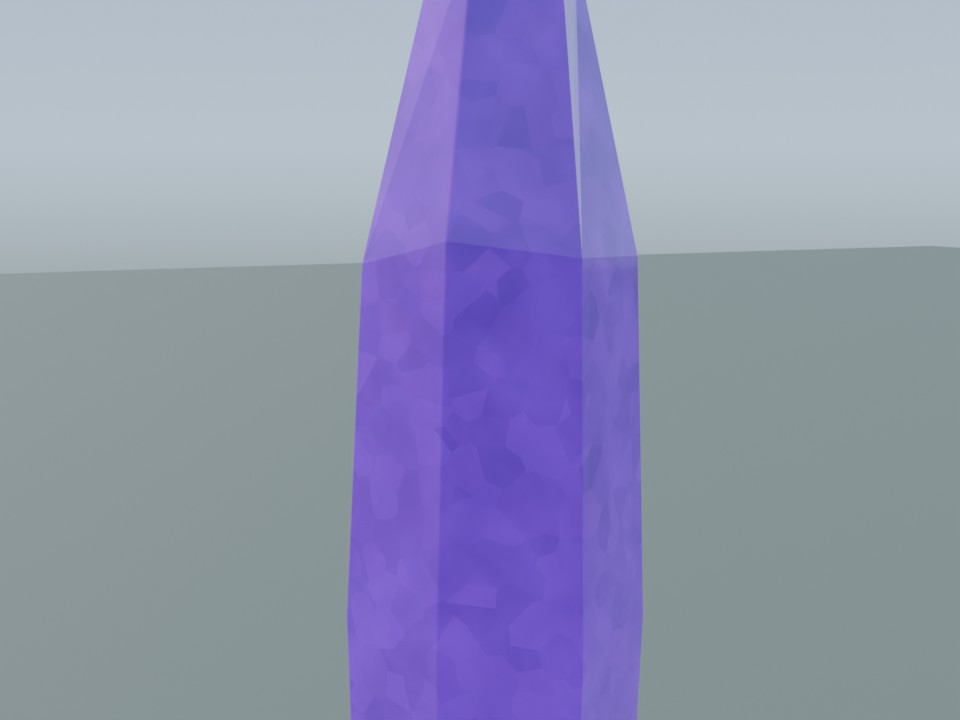
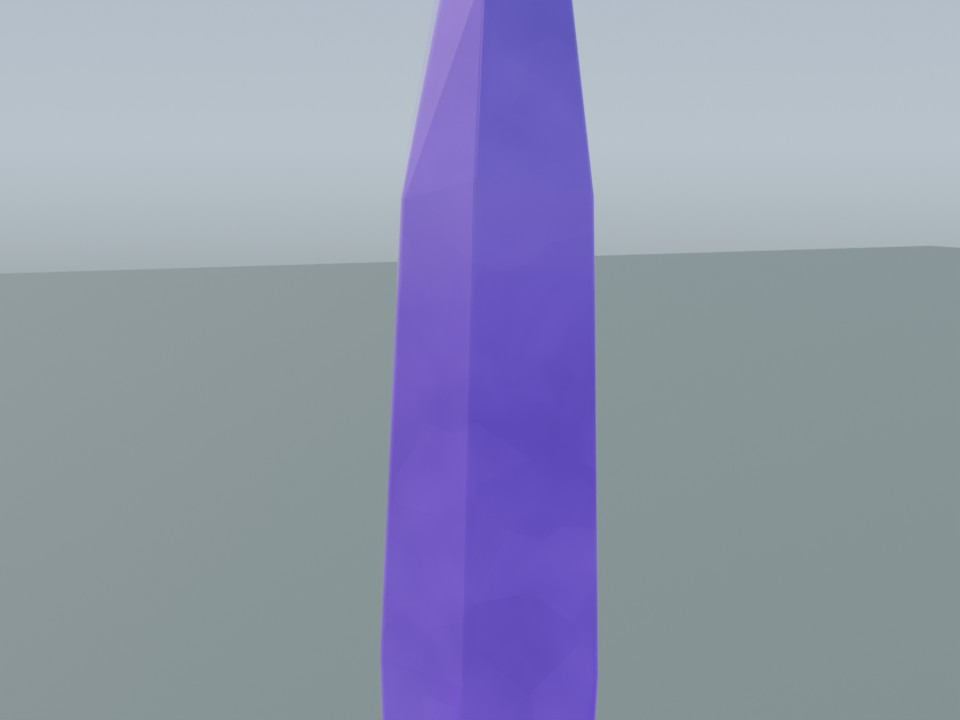
Refine spire mineral scale, fractured footing and rooted collar

diff --git a/assets/crystals/crystal_spire_a/build.py b/assets/crystals/crystal_spire_a/build.py
@@ -138,6 +138,12 @@ def crystal_material():
     coords = N.new("ShaderNodeTexCoord")
     sep = N.new("ShaderNodeSeparateXYZ")
     L.new(coords.outputs["Generated"], sep.inputs["Vector"])
+    density = N.new("ShaderNodeAttribute")
+    density.attribute_name = "growth_scale"
+    mineral_space = N.new("ShaderNodeVectorMath")
+    mineral_space.operation = "SCALE"
+    L.new(coords.outputs["Object"], mineral_space.inputs[0])
+    L.new(density.outputs["Fac"], mineral_space.inputs[3])
 
     body = N.new("ShaderNodeValToRGB")
     e = body.color_ramp.elements
@@ -150,12 +156,12 @@ def crystal_material():
     # Angular inner fractures: large Voronoi cells shift tone and glow.
     cells = N.new("ShaderNodeTexVoronoi")
     cells.inputs["Scale"].default_value = 5.5
-    L.new(coords.outputs["Object"], cells.inputs["Vector"])
+    L.new(mineral_space.outputs["Vector"], cells.inputs["Vector"])
     cell_sep = N.new("ShaderNodeSeparateXYZ")
     L.new(cells.outputs["Color"], cell_sep.inputs["Vector"])
     fract = N.new("ShaderNodeMixRGB")
     fract.blend_type = "OVERLAY"
-    fract.inputs["Fac"].default_value = 0.14
+    fract.inputs["Fac"].default_value = 0.045
     L.new(body.outputs["Color"], fract.inputs["Color1"])
     L.new(cells.outputs["Color"], fract.inputs["Color2"])
     tint = N.new("ShaderNodeMixRGB")
@@ -172,7 +178,7 @@ def crystal_material():
     veins.inputs["Scale"].default_value = 2.4
     veins.inputs["Detail"].default_value = 3
     veins.inputs["Distortion"].default_value = 0.4
-    L.new(coords.outputs["Object"], veins.inputs["Vector"])
+    L.new(mineral_space.outputs["Vector"], veins.inputs["Vector"])
     vein_mask = N.new("ShaderNodeValToRGB")
     vein_mask.color_ramp.elements[0].position = 0.35
     vein_mask.color_ramp.elements[1].position = 0.75
@@ -192,7 +198,7 @@ def crystal_material():
     L.new(core.outputs["Result"], vein_gain.inputs[2])
     cell_gain = N.new("ShaderNodeMath")
     cell_gain.operation = "MULTIPLY_ADD"
-    cell_gain.inputs[1].default_value = 0.10
+    cell_gain.inputs[1].default_value = 0.035
     L.new(cell_sep.outputs["X"], cell_gain.inputs[0])
     L.new(vein_gain.outputs["Value"], cell_gain.inputs[2])
     bsdf.inputs["Emission Color"].default_value = (0.30, 0.05, 1.0, 1)
@@ -287,6 +293,9 @@ def make_crystal(name, rng, radius, height, mat, chip=None):
     bm.to_mesh(mesh)
     bm.free()
     obj = bpy.data.objects.new(name, mesh)
+    density = mesh.attributes.new("growth_scale", "FLOAT", "POINT")
+    for value in density.data:
+        value.value = 3.25 / height
     obj.data.materials.append(mat)
     bevel = obj.modifiers.new("edge_bevel", "BEVEL")
     bevel.width = max(0.004, radius * 0.045)
@@ -324,12 +333,20 @@ def limestone_block(name, rng, size, location, mat):
     bmesh.ops.create_cube(bm, size=1)
     for v in bm.verts:
         v.co = Vector(tuple(a * b for a, b in zip(v.co, size)))
-    for _ in range(4):
+        v.co.x += v.co.z * rng.uniform(-0.18, 0.18)
+        v.co.y += v.co.z * rng.uniform(-0.16, 0.16)
+    planes = [(Vector((rng.uniform(-0.4, 0.4), rng.uniform(-0.4, 0.4), 1)),
+               Vector((0, 0, size[2] * rng.uniform(0.20, 0.38)))),
+              (Vector((1, rng.uniform(-0.6, 0.6), rng.uniform(-0.3, 0.3))),
+               Vector((size[0] * 0.36, 0, 0)))]
+    for _ in range(2):
         corner = Vector(tuple(rng.choice((-1, 1)) * s * 0.5 for s in size))
         normal = Vector(tuple(math.copysign(rng.uniform(0.6, 1.2), c) for c in corner)).normalized()
+        planes.append((normal, corner - normal * rng.uniform(0.05, 0.12)))
+    for normal, point in planes:
         cut = bmesh.ops.bisect_plane(
             bm, geom=bm.verts[:] + bm.edges[:] + bm.faces[:],
-            plane_co=corner - normal * rng.uniform(0.10, 0.22), plane_no=normal, clear_outer=True)
+            plane_co=point, plane_no=normal.normalized(), clear_outer=True)
         edges = [e for e in cut["geom_cut"] if isinstance(e, bmesh.types.BMEdge) and e.is_boundary]
         bmesh.ops.holes_fill(bm, edges=edges)
     bmesh.ops.recalc_face_normals(bm, faces=bm.faces)
@@ -339,9 +356,9 @@ def limestone_block(name, rng, size, location, mat):
     obj = bpy.data.objects.new(name, mesh)
     obj.data.materials.append(mat)
     obj.location = location
-    obj.rotation_euler = Euler((rng.uniform(-0.09, 0.09), rng.uniform(-0.12, 0.12), rng.uniform(-0.6, 0.6)))
+    obj.rotation_euler = Euler((rng.uniform(-0.19, 0.19), rng.uniform(-0.22, 0.22), rng.uniform(-0.6, 0.6)))
     bevel = obj.modifiers.new("Worn limestone edges", "BEVEL")
-    bevel.width, bevel.segments = 0.035, 3
+    bevel.width, bevel.segments = 0.014, 2
     return vrlib.link_to_source(obj)
 
 
@@ -349,23 +366,38 @@ def build():
     rng = random.Random(SEED)
     limestone = vrmat.get("monument_white").copy()
     limestone.name = "Spire | chalk limestone"
+    weather = vrmat.get("monument_weathered").copy()
+    weather.name = "Spire | sheltered limestone"
     soil = vrmat.get("forest_soil").copy()
     moss = rock_material()
     crystal = crystal_material()
 
-    footing = [(-1.45, -0.8, 1.35, 1.1, 0.75), (0.05, -1.45, 1.5, 1.0, 0.62),
-               (1.3, -0.95, 1.1, 1.5, 0.9), (1.65, 0.5, 1.0, 1.25, 0.65),
-               (0.7, 1.55, 1.5, 1.15, 0.8), (-0.9, 1.45, 1.4, 1.0, 0.7),
-               (-1.65, 0.45, 1.0, 1.2, 0.95)]
+    footing = [(-1.55, -0.8, 1.45, 1.15, 1.05), (0.05, -1.65, 1.35, 0.85, 0.6),
+               (1.45, -0.95, 0.95, 1.45, 1.3), (1.7, 0.65, 1.15, 1.1, 0.72),
+               (0.5, 1.7, 1.6, 1.1, 1.1), (-0.95, 1.55, 1.2, 1.05, 0.65),
+               (-1.65, 0.45, 0.95, 1.05, 1.4)]
     for i, (x, y, sx, sy, sz) in enumerate(footing):
-        limestone_block(f"limestone_break_{i}", rng, (sx, sy, sz), (x, y, sz * 0.42), limestone)
-        joint = make_rock(f"joint_earth_{i}", rng, 0.55, 0.22, 4, soil)
-        joint.location = (x * 0.75, y * 0.75, 0.12)
+        limestone_block(f"limestone_break_{i}", rng, (sx, sy, sz), (x, y, sz * 0.42),
+                        weather if i in (2, 5) else limestone)
+        nx, ny = footing[(i + 1) % len(footing)][:2]
+        joint = make_rock(f"joint_earth_{i}", rng, 0.56, 0.48, 5, soil)
+        joint.location = ((x + nx) * 0.47, (y + ny) * 0.47, 0.23)
+        tuft = make_rock(f"joint_moss_{i}", rng, 0.21, 0.55, 4, moss)
+        tuft.location = (joint.location.x, joint.location.y, 0.37)
+    for i, (size, position) in enumerate([((1.0, 0.75, 0.55), (-1.55, 0.4, 1.05)),
+                                         ((0.7, 0.85, 1.05), (0.6, 1.6, 1.03))]):
+        block = limestone_block(f"leaning_break_{i}", rng, size, position, limestone)
+        block.rotation_euler.x += 0.29 if i else -0.25
 
-    collar = make_rock("soil_collar", rng, 1.3, 0.43, 6, soil)
-    collar.location = (0, 0, 0.25)
-    turf = make_rock("moss_collar", rng, 1.16, 0.43, 6, moss)
-    turf.location = (-0.05, 0.08, 0.40)
+    collar = make_rock("soil_collar", rng, 1.46, 0.55, 6, soil)
+    collar.location = (0, 0, 0.30)
+    for i, (x, y, radius) in enumerate([(-0.6, -0.5, 0.65), (0.45, 0.4, 0.67), (-0.4, 0.6, 0.48)]):
+        turf = make_rock(f"moss_collar_{i}", rng, radius, 0.48, 5, moss)
+        turf.location = (x, y, 0.59)
+    for i in range(6):
+        angle = i * math.tau / 6 + 0.2
+        pebble = make_rock(f"collar_pebble_{i}", rng, rng.uniform(0.09, 0.17), 0.75, 4, weather)
+        pebble.location = (math.cos(angle), math.sin(angle), 0.66)
     for i in range(10):
         angle = rng.uniform(0, math.tau)
         distance = rng.uniform(1.9, 2.3)
@@ -375,10 +407,10 @@ def build():
 
     main = make_crystal("dominant_spire", rng, 0.67, 6.72, crystal, chip=0.985)
     place(main, rng, 1.3, 0.04, math.radians(3), 0.56)
-    for i, (angle, height, distance) in enumerate([(0.2, 1.6, 0.95), (2.0, 2.1, 0.8),
+    for i, (angle, height, distance) in enumerate([(0.2, 2.15, 0.9), (2.0, 2.65, 0.78),
                                                    (3.8, 1.25, 0.62), (5.2, 0.95, 0.68)]):
         satellite = make_crystal(f"satellite_{i}", rng, height * 0.14, height, crystal,
                                  chip=0.95 if i == 1 else None)
-        place(satellite, rng, angle, distance, math.radians(rng.uniform(15, 27)), 0.38)
+        place(satellite, rng, angle, distance, math.radians(rng.uniform(28, 39)), 0.45)
     bpy.context.view_layer.update()
     cut_below_ground()
